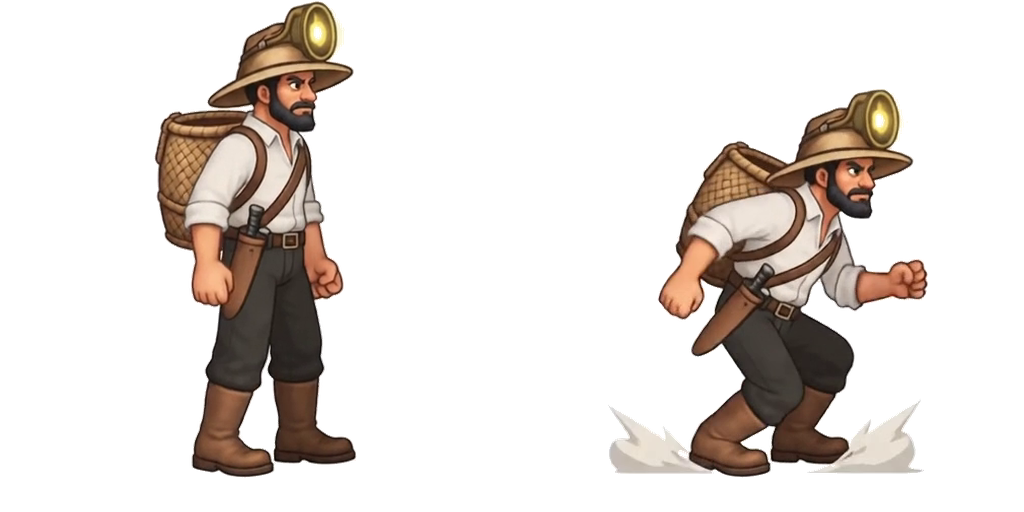
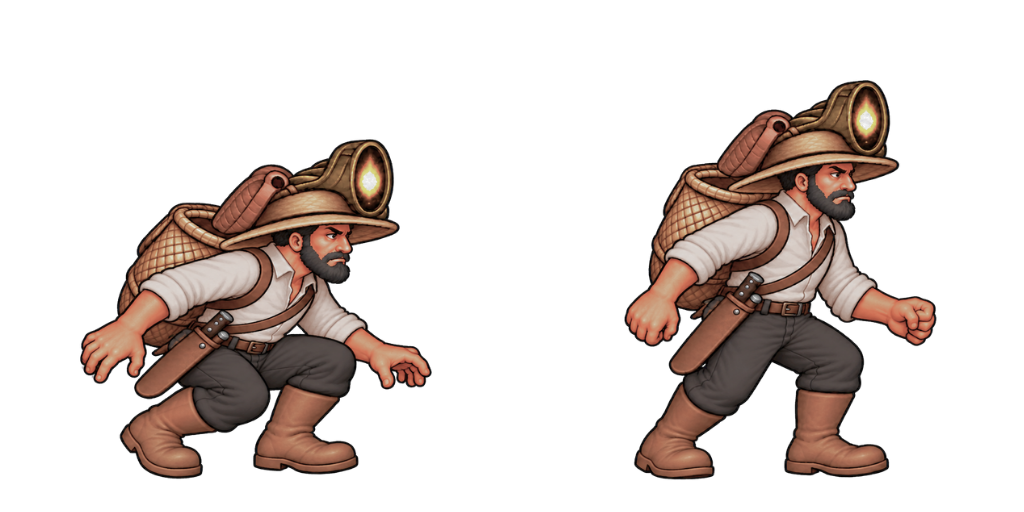
Substitui landing pelo novo personagem definitivo com 2 frames

diff --git a/src/game/scenes/Preloader.js b/src/game/scenes/Preloader.js
@@ -38,7 +38,7 @@ export class Preloader extends Scene
         this.load.spritesheet('seringueiroWalk', 'walk.png?v=walk-080-y480-20260930', { frameWidth: 512, frameHeight: 512, endFrame: 5 });
         this.load.spritesheet('seringueiroJump', 'jump.png', { frameWidth: 512, frameHeight: 512, endFrame: 3 });
         this.load.spritesheet('seringueiroDash', 'dash.png', { frameWidth: 512, frameHeight: 512, endFrame: 4 });
-        this.load.spritesheet('seringueiroLanding', 'landing.png', { frameWidth: 512, frameHeight: 512, endFrame: 1 });
+        this.load.spritesheet('seringueiroLanding', 'landing.png?v=landing2-20260930', { frameWidth: 512, frameHeight: 512, endFrame: 1 });
     }
 
     create ()
